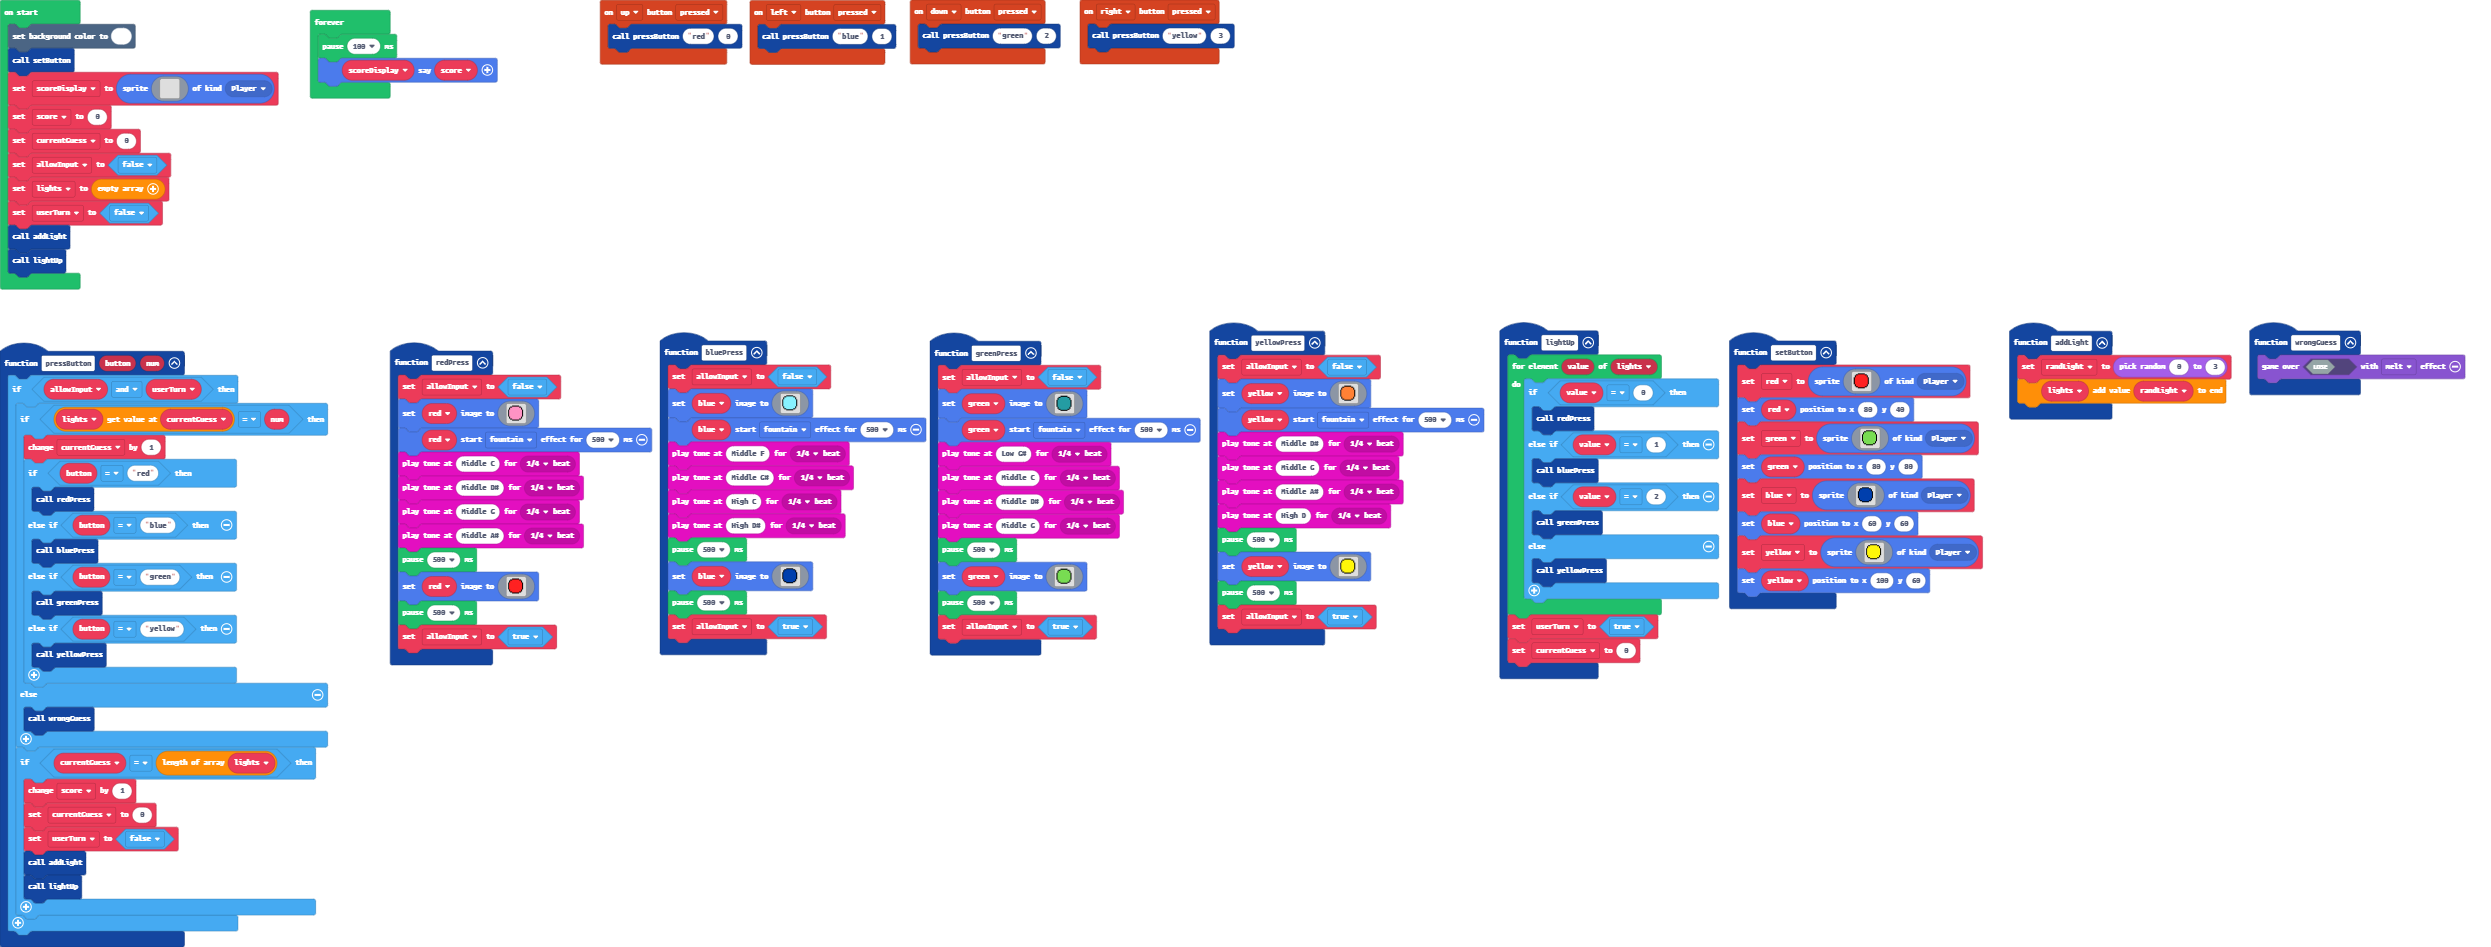
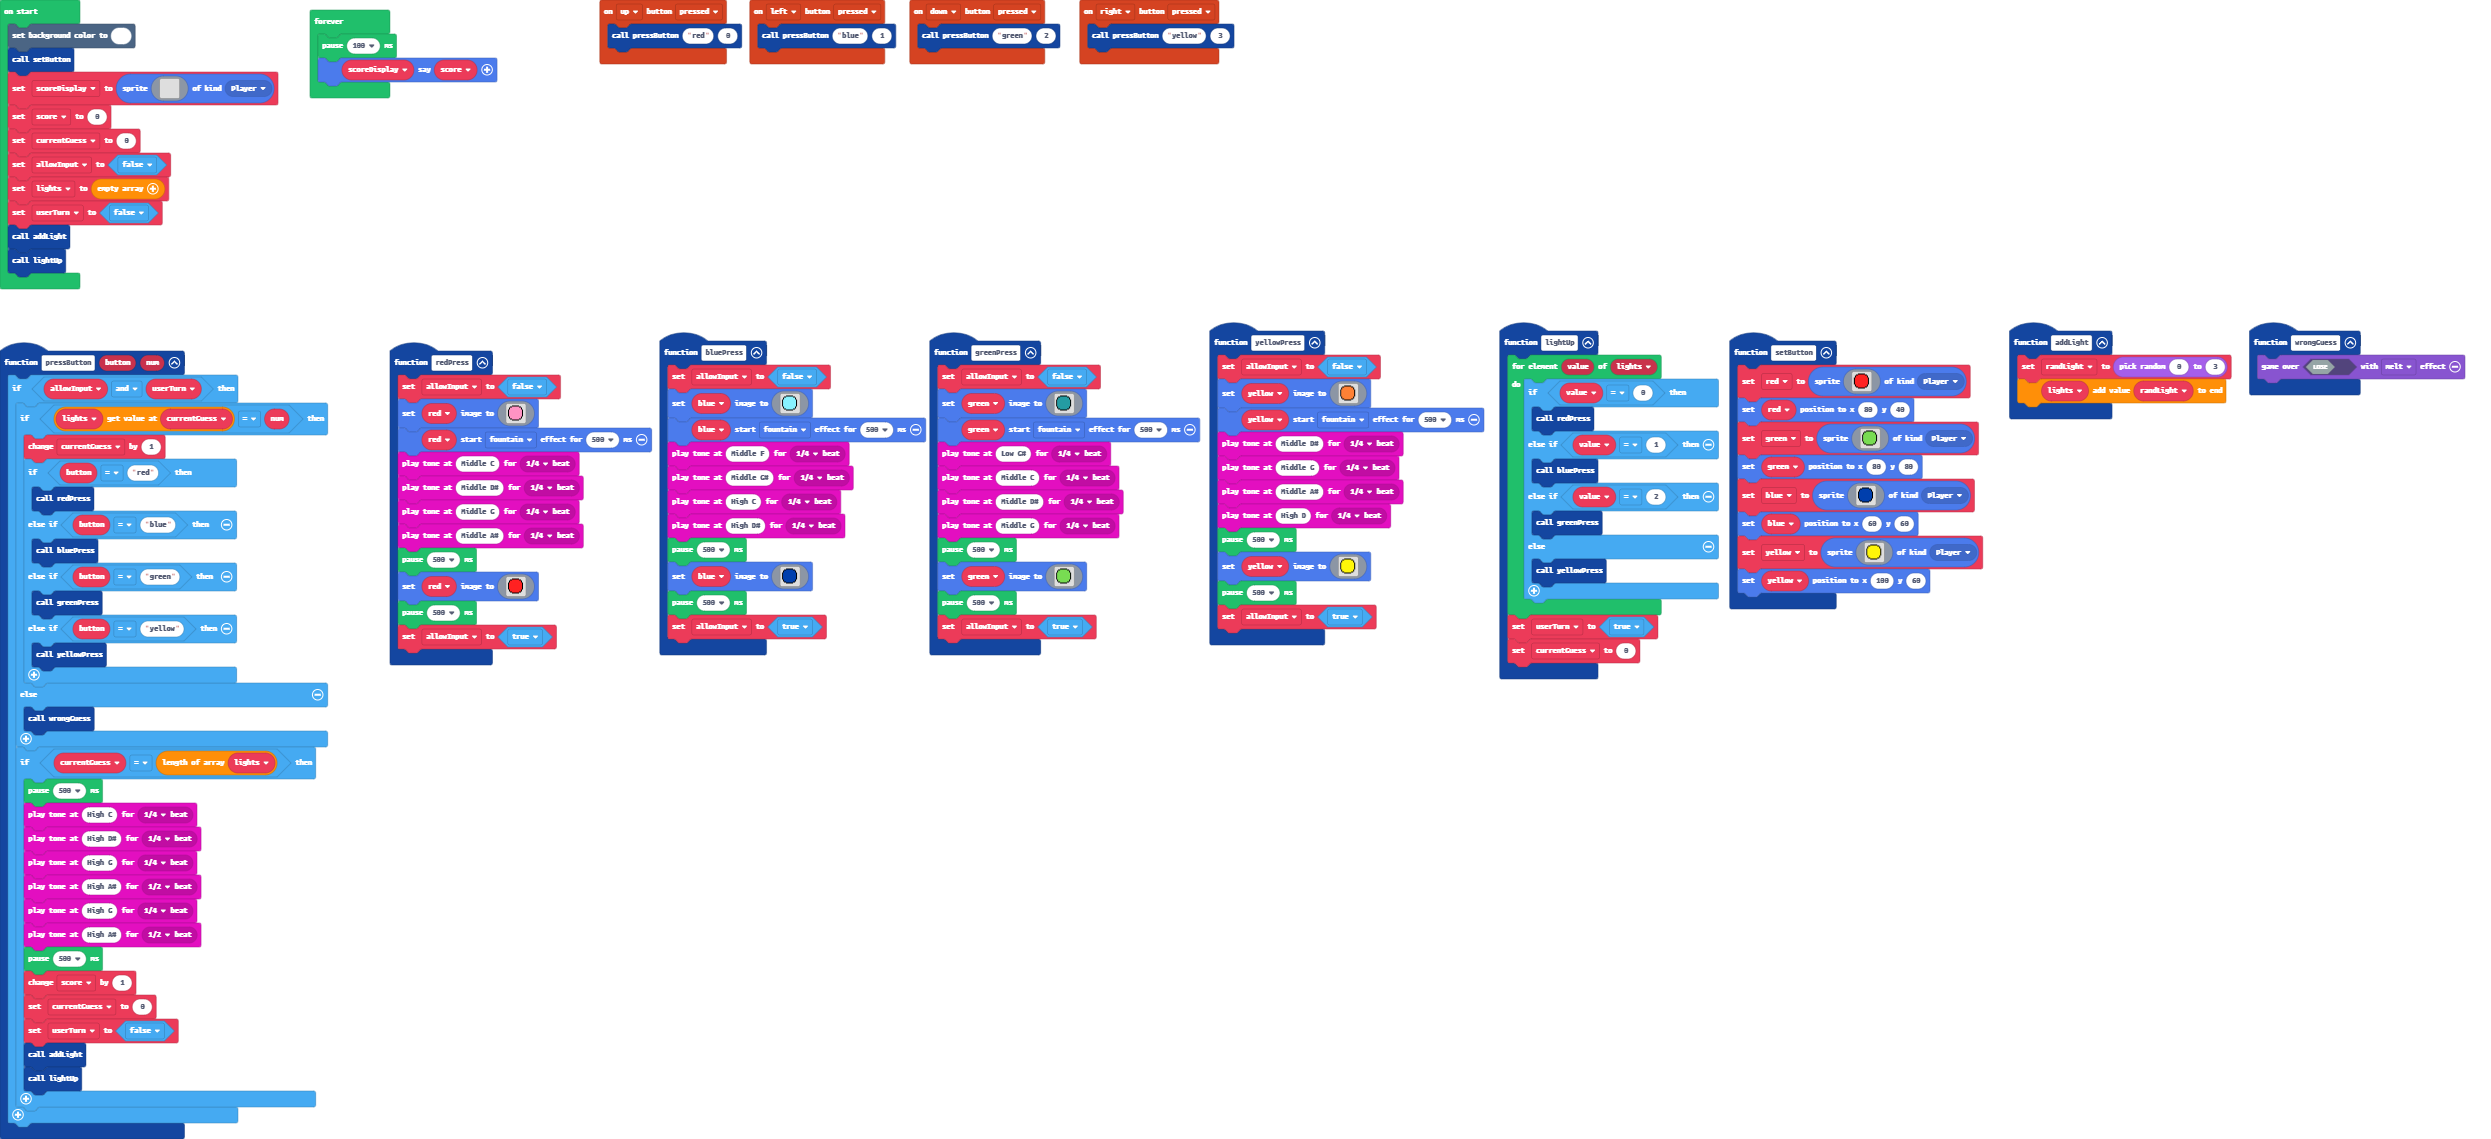
Update main.blocks, main.ts

Changed region(s): [[0.0, 0.0, 0.9892, 1.0]]

diff --git a/main.ts b/main.ts
@@ -18,6 +18,14 @@ function pressButton (button: string, num: number) {
             wrongGuess()
         }
         if (currentGuess == lights.length) {
+            pause(500)
+            music.playTone(523, music.beat(BeatFraction.Quarter))
+            music.playTone(622, music.beat(BeatFraction.Quarter))
+            music.playTone(784, music.beat(BeatFraction.Quarter))
+            music.playTone(932, music.beat(BeatFraction.Half))
+            music.playTone(784, music.beat(BeatFraction.Quarter))
+            music.playTone(932, music.beat(BeatFraction.Half))
+            pause(500)
             score += 1
             currentGuess = 0
             userTurn = false
